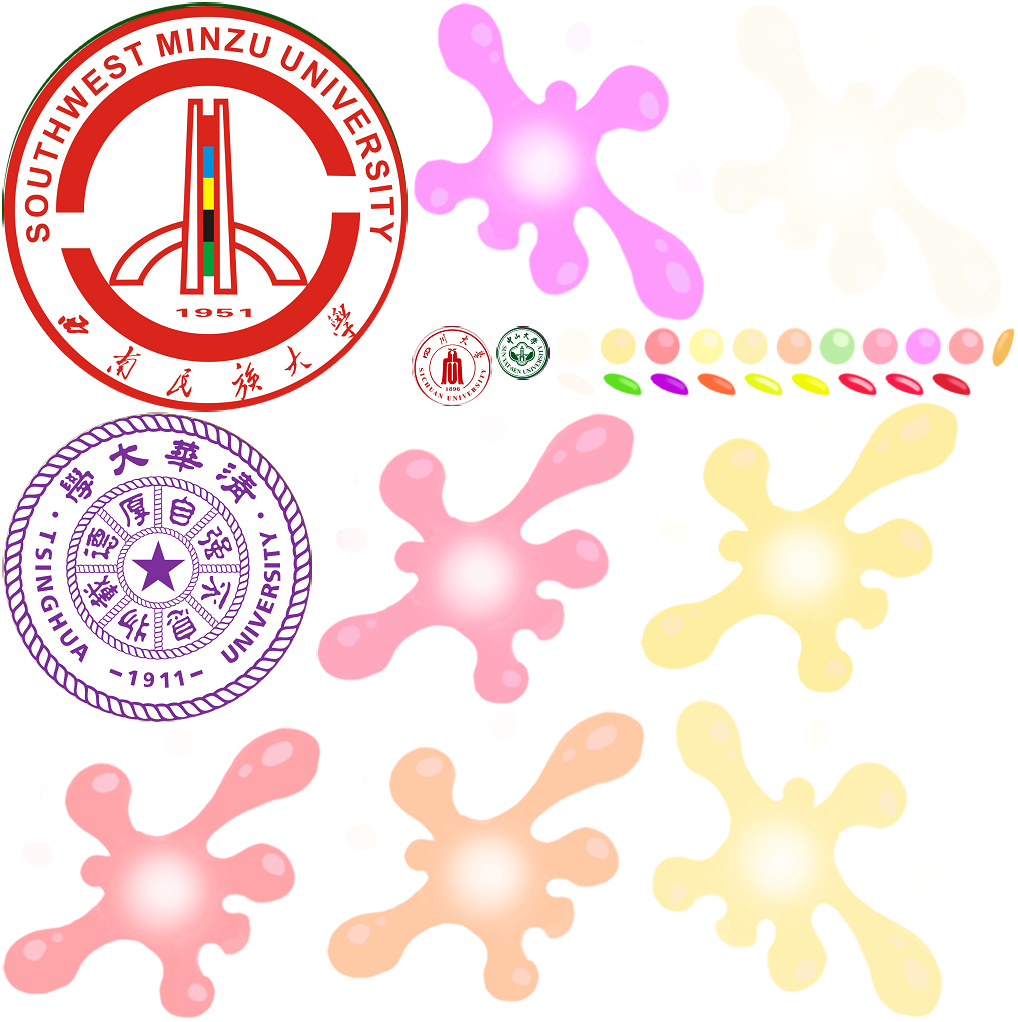
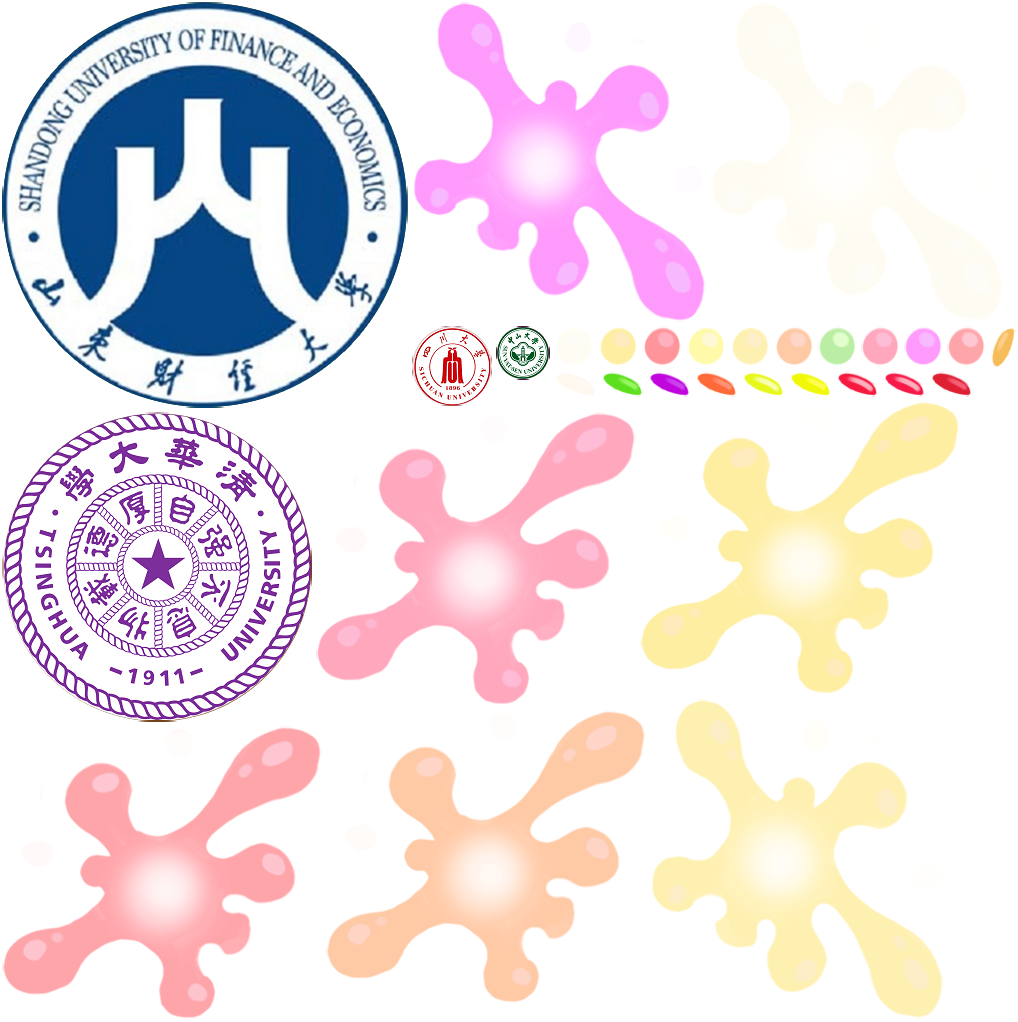
initial commit

Changed region(s): [[0.0, 0.0, 0.4263, 0.728], [0.3959, 0.3033, 0.5481, 0.3943]]

diff --git a/index.html b/index.html
@@ -4,7 +4,7 @@
 <head>
     <meta charset="utf-8">
 
-    <title>合成民大</title>
+    <title>合成山财大</title>
 
     <!--http://www.html5rocks.com/en/mobile/mobifying/-->
     <meta name="viewport" content="width=device-width,user-scalable=no,initial-scale=1, minimum-scale=1,maximum-scale=1" />
@@ -109,7 +109,7 @@
             //        console.log("window.navigator.language",window.navigator.language);
 
             if (window.navigator.language == "zh-CN" || window.navigator.language == "zh-cn") {
-                document.title = "合成民大";
+                document.title = "合成山财大";
             } 
 
 
